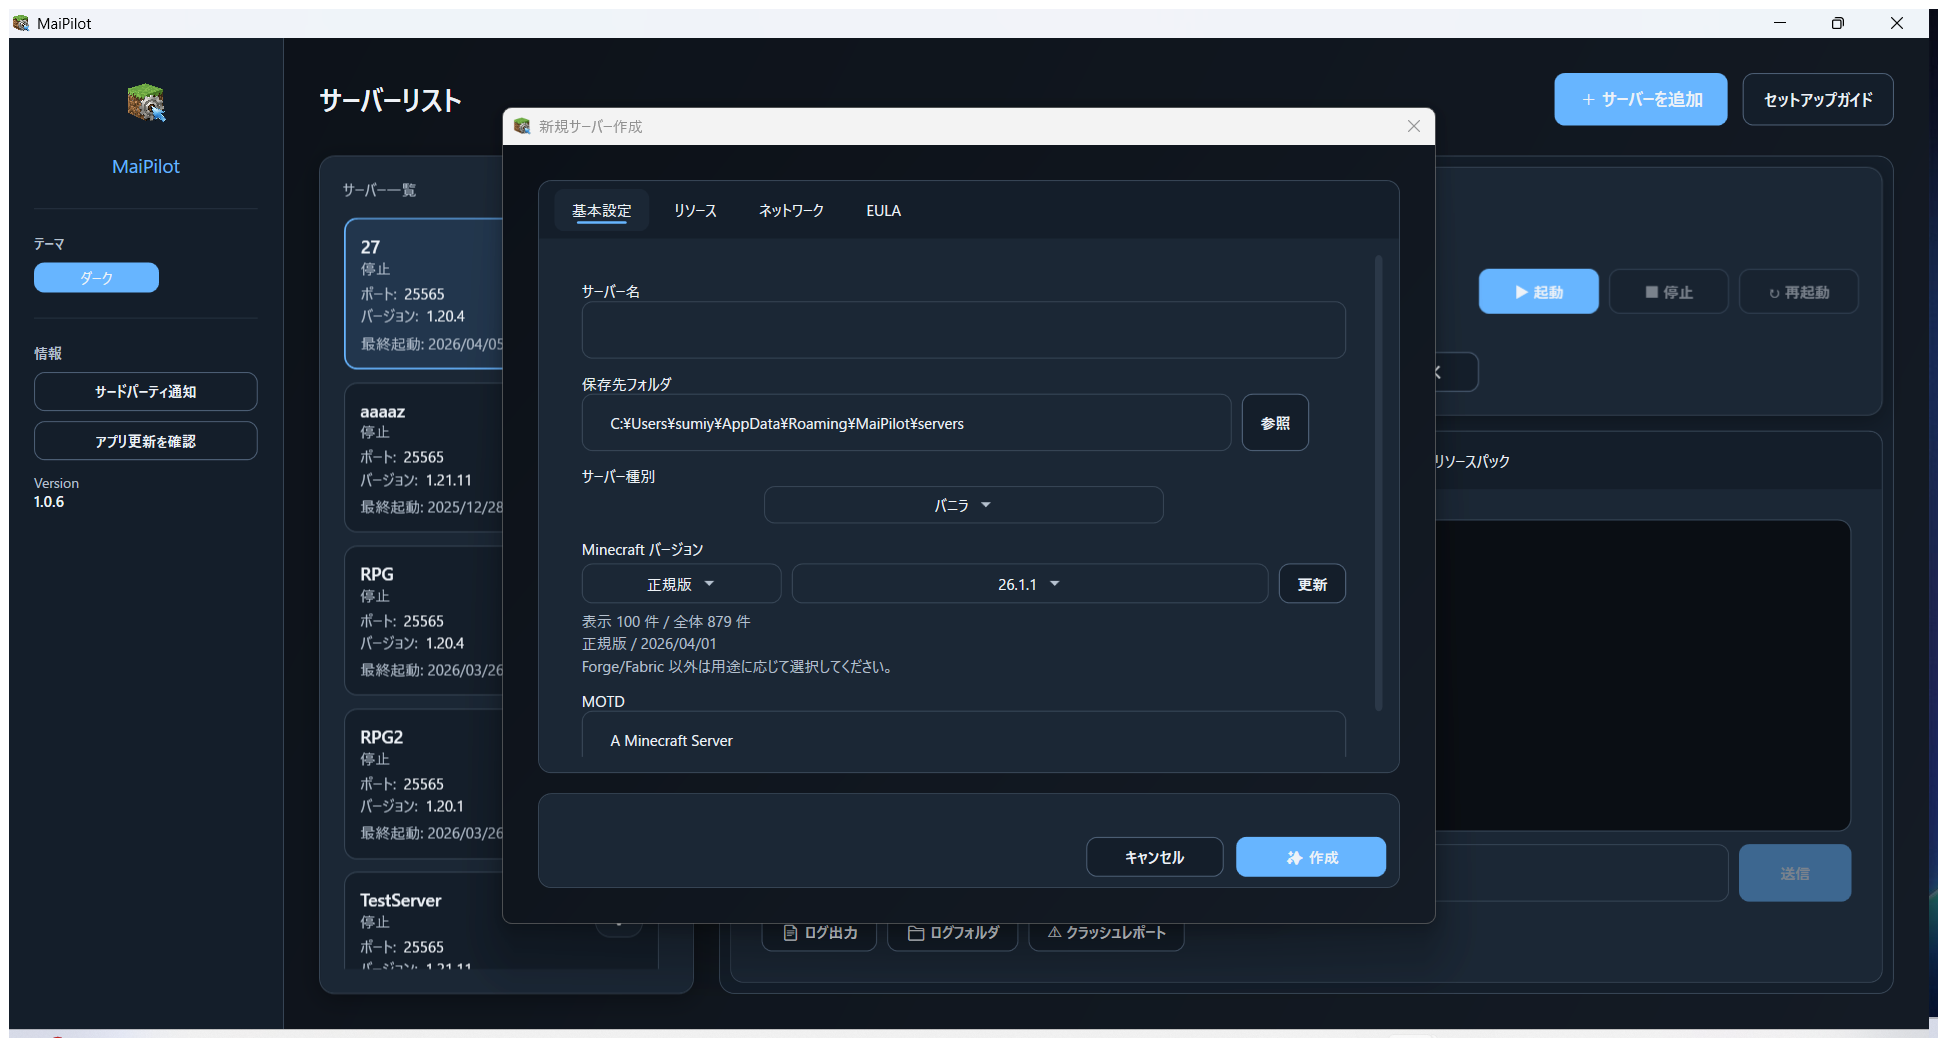
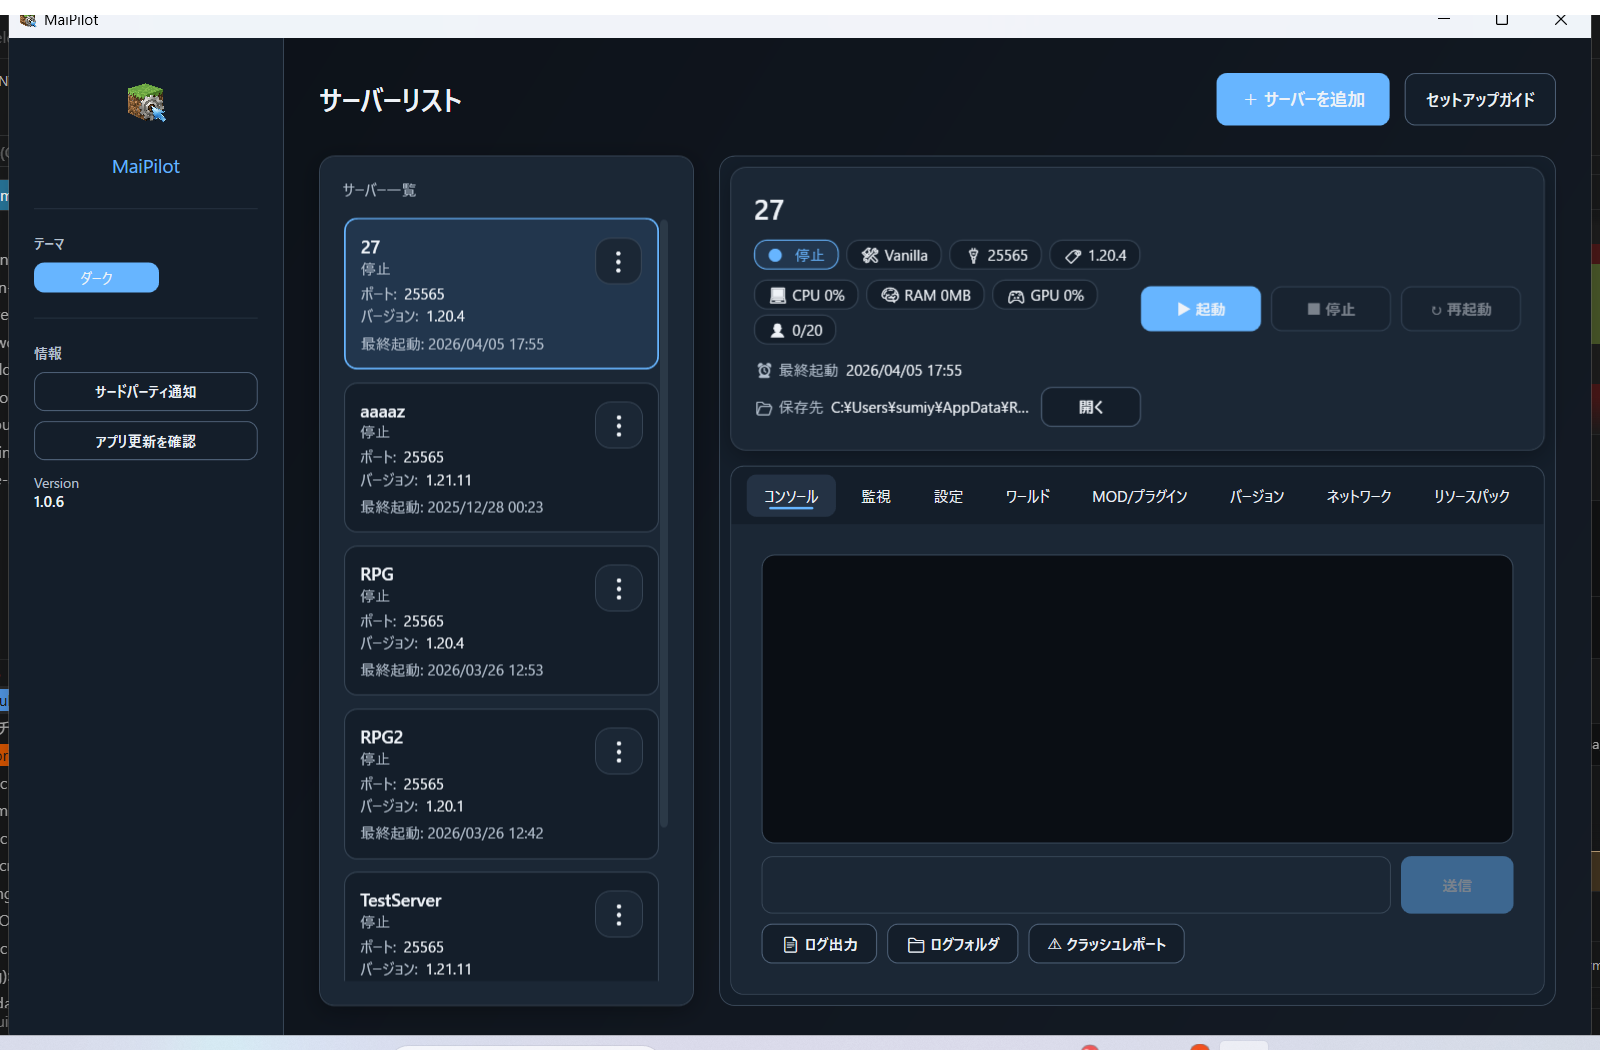
fix: スクリーンショットのモーダル写り込み修正・devtools無効化
- アプリを毎回kill→再起動してクリーンな状態でキャプチャするよう変更
- ダイアログを開くステップ(08/09)を削除（記事未使用・モーダルの原因）
- nuxt.config.ts devtools: false でLPのimage overlayを無効化
- パス(C:\Users\xxx)をモザイク対象に追加
- スクリーンショット7枚を再撮影

diff --git a/McServerManager/landing/nuxt.config.ts b/McServerManager/landing/nuxt.config.ts
@@ -1,5 +1,5 @@
 export default defineNuxtConfig({
-  devtools: { enabled: process.env.NODE_ENV === "development" },
+  devtools: { enabled: false },
   css: ["~/assets/css/main.css"],
 
   runtimeConfig: {
